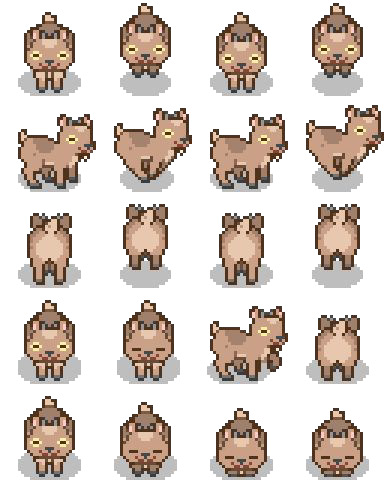
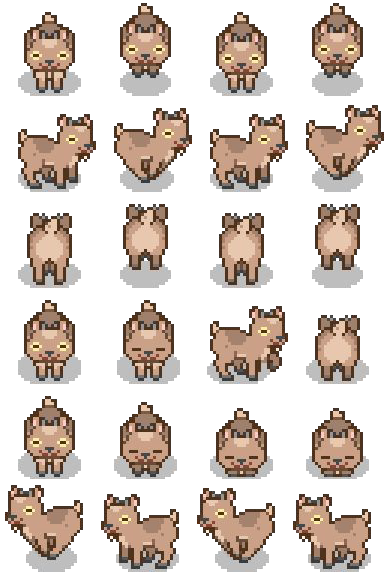
animation for enemies

diff --git a/src/entities/goat.ts b/src/entities/goat.ts
@@ -1,0 +1,58 @@
+import { Enemy } from "./enemy";
+import { SPRITES } from "../utils/constants";
+
+export class Goat extends Enemy {
+  textureKey: string;
+
+  constructor(scene: Phaser.Scene, x: number, y: number, texture: string) {
+    super(scene, x, y, texture, SPRITES.GOAT.base);
+    this.scene = scene;
+    this.scene.physics.add.existing(this);
+
+    const anims = this.scene.anims;
+    const animsFrameRate = 9;
+    this.textureKey = texture;
+
+    this.setSize(55, 55);
+    this.setOffset(22, 36);
+    this.setScale(0.3);
+
+    anims.create({
+      key: "leftGoat",
+      frames: anims.generateFrameNumbers(this.textureKey, {
+        start: 4,
+        end: 7,
+      }),
+      frameRate: animsFrameRate,
+      repeat: -1,
+    });
+
+    anims.create({
+      key: "rightGoat",
+      frames: anims.generateFrameNumbers(this.textureKey, {
+        start: 20,
+        end: 23,
+      }),
+      frameRate: animsFrameRate,
+      repeat: -1,
+    });
+
+    this.cycleTween();
+    {
+      this.scene.tweens.add({
+        targets: this,
+        duration: 5000,
+        repeat: -1,
+        yoyo: true,
+        x: this.x + 100,
+        y: this.y,
+        onRepeat: () => {
+          this.play("leftGoat", true);
+        },
+        onYoyo: () => {
+          this.play("rightGoat", true);
+        },
+      });
+    }
+  }
+}

diff --git a/src/entities/bear.ts b/src/entities/bear.ts
@@ -1,0 +1,58 @@
+import { Enemy } from "./enemy";
+import { SPRITES } from "../utils/constants";
+
+export class Bear extends Enemy {
+  textureKey: string;
+
+  constructor(scene: Phaser.Scene, x: number, y: number, texture: string) {
+    super(scene, x, y, texture, SPRITES.BEAR.base);
+    this.scene = scene;
+    this.scene.physics.add.existing(this);
+
+    const anims = this.scene.anims;
+    const animsFrameRate = 9;
+    this.textureKey = texture;
+
+    this.setSize(36, 36);
+    this.setOffset(10, 12);
+    this.setScale(0.9);
+
+    anims.create({
+      key: "downBear",
+      frames: anims.generateFrameNumbers(this.textureKey, {
+        start: 9,
+        end: 11,
+      }),
+      frameRate: animsFrameRate,
+      repeat: -1,
+    });
+
+    anims.create({
+      key: "upBear",
+      frames: anims.generateFrameNumbers(this.textureKey, {
+        start: 0,
+        end: 2,
+      }),
+      frameRate: animsFrameRate,
+      repeat: -1,
+    });
+
+    this.cycleTween();
+    {
+      this.scene.tweens.add({
+        targets: this,
+        duration: 4000,
+        repeat: -1,
+        yoyo: true,
+        x: this.x + 5,
+        y: this.y + 100,
+        onRepeat: () => {
+          this.play("upBear", true);
+        },
+        onYoyo: () => {
+          this.play("downBear", true);
+        },
+      });
+    }
+  }
+}

diff --git a/src/scenes/durotar.ts b/src/scenes/durotar.ts
@@ -1,12 +1,15 @@
 import durotarJSON from "../assets/durotar.json";
 import { Player } from "../entities/player";
 import { Enemy } from "../entities/enemy";
+import { Bear } from "../entities/bear";
+import { Goat } from "../entities/goat";
 import { TILES, SIZES, LAYERS, SPRITES } from "../utils/constants";
 
 export class Durotar extends Phaser.Scene {
   private player?: Player;
-  private bear: Enemy;
-  private goat: Enemy;
+  private goat: Goat;
+  private bear: Bear;
+
   constructor() {
     super("DurotarScene");
   }
@@ -43,15 +46,8 @@ export class Durotar extends Phaser.Scene {
     const wallsdLayer = map.createLayer(LAYERS.WALLS, tileset, 0, 0);
 
     this.player = new Player(this, 400, 250, SPRITES.PLAYER);
-    this.bear = new Enemy(this, 50, 450, SPRITES.BEAR.base);
-    this.bear.setSize(36, 36);
-    this.bear.setOffset(10, 12);
-    this.bear.setScale(0.9);
-
-    this.goat = new Enemy(this, 450, 250, SPRITES.GOAT.base);
-    this.goat.setSize(55, 55);
-    this.goat.setOffset(22, 36);
-    this.goat.setScale(0.3);
+    this.bear = new Bear(this, 50, 450, SPRITES.BEAR.base);
+    this.goat = new Goat(this, 450, 250, SPRITES.GOAT.base);
 
     this.cameras.main.startFollow(this.player);
     this.cameras.main.setBounds(0, 0, map.widthInPixels, map.heightInPixels);

diff --git a/src/entities/enemy.ts b/src/entities/enemy.ts
@@ -1,7 +1,37 @@
 import { Entity } from "./entity";
 
 export class Enemy extends Entity {
-  constructor(scene: Phaser.Scene, x: number, y: number, texture: string) {
+  constructor(
+    scene: Phaser.Scene,
+    x: number,
+    y: number,
+    texture: string,
+    type?: string
+  ) {
     super(scene, x, y, texture);
+    this.setFlipX(false);
+  }
+
+  cycleTween(
+    duration?: number,
+    deltaX?: number,
+    deltaY?: number,
+    onrepeat?: void,
+    onyoyo?: void
+  ) {
+    this.scene.tweens.add({
+      targets: this,
+      duration: duration || 2000,
+      repeat: -1,
+      yoyo: true,
+      x: this.x + (deltaX || 0),
+      y: this.y + (deltaY || 0),
+      onRepeat: () => {
+        onrepeat;
+      },
+      onYoyo: () => {
+        onyoyo;
+      },
+    });
   }
 }
